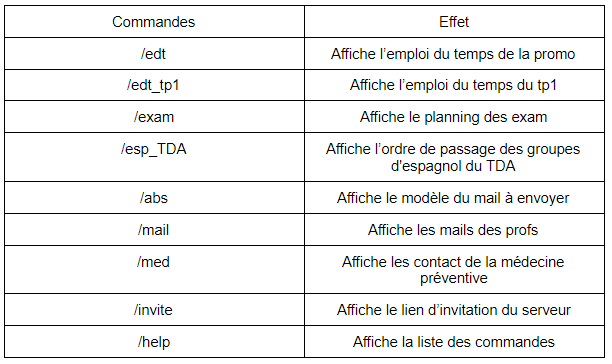
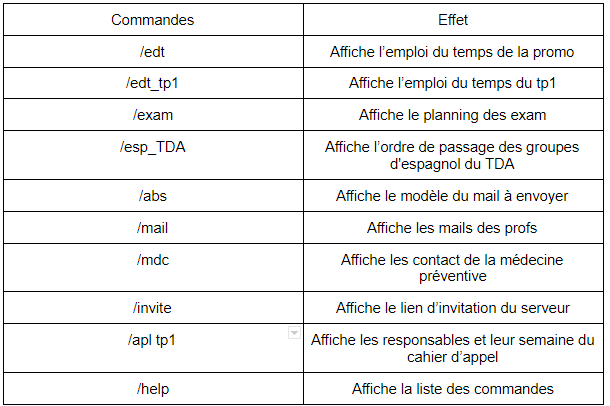
Add files via upload

Changed region(s): [[0.0, 0.0, 0.9967, 1.0]]

diff --git a/index.js b/index.js
@@ -118,7 +118,7 @@ Client.on("message", message => {
         var embed = new Discord.MessageEmbed()
         .setColor("#602F98")
         .setTitle("Exemple d'un mail d'abscence")
-        .setDescription("**Destinataires** : Florian Joetzer, Rémi Boutteau et le prof concerné \n**Sujet** : -ABS-MMI1-2021-CODE_MATIÈRE-MATIÈRE-NOM \n**Contenu** \n```Bonjour, Veuillez m'excuser pour mon abscence du *date_de_l'abscence*. Vous trouverez ci-joint un justificatif.``` \n**Justificatif en pièce jointe**")
+        .setDescription("***Destinataires*** : Florian Joetzer, Rémi Boutteau et le prof concerné \n***Sujet*** : -ABS-MMI1-2021-CODE_MATIÈRE-MATIÈRE-NOM \n***Contenu*** \n```Bonjour, Veuillez m'excuser pour mon abscence du *date_de_l'abscence*. Vous trouverez ci-joint un justificatif.``` \n***Justificatif en pièce jointe***")
         .setTimestamp()
     
     message.channel.send(embed);
@@ -138,7 +138,7 @@ Client.on("message", message => {
         var embed = new Discord.MessageEmbed()
         .setColor("#602F98")
         .setTitle("Médecine préventive")
-        .setDescription("**Infirmiers** : Mr Maison (*jean-paul.maison@univ-rouen.fr*) et Mme Lemerle (*christine.lemerle@univ-rouen.fr*) \n**Médecin** : Mme Gargala (*catherine.gargala@univ-rouen.fr*) \n**Sophrologue** : Mme Letourneur (*06 89 42 57 44* contact par SMS) \n**Psycologue** : Mme Briere (*barbara.briere@univ-rouen.fr*) \n**Assistante Sociale** : Mme Lemoine (*pauline.lemoine@univ-rouen.fr* / *06 70 74 99 43*)")
+        .setDescription("***Infirmiers*** : Mr Maison (*jean-paul.maison@univ-rouen.fr*) et Mme Lemerle (*christine.lemerle@univ-rouen.fr*) \n***Médecin*** : Mme Gargala (*catherine.gargala@univ-rouen.fr*) \n***Sophrologue*** : Mme Letourneur (*06 89 42 57 44* contact par SMS) \n***Psycologue*** : Mme Briere (*barbara.briere@univ-rouen.fr*) \n***Assistante Sociale*** : Mme Lemoine (*pauline.lemoine@univ-rouen.fr* / *06 70 74 99 43*)")
         .setTimestamp()
     
     message.channel.send(embed);
